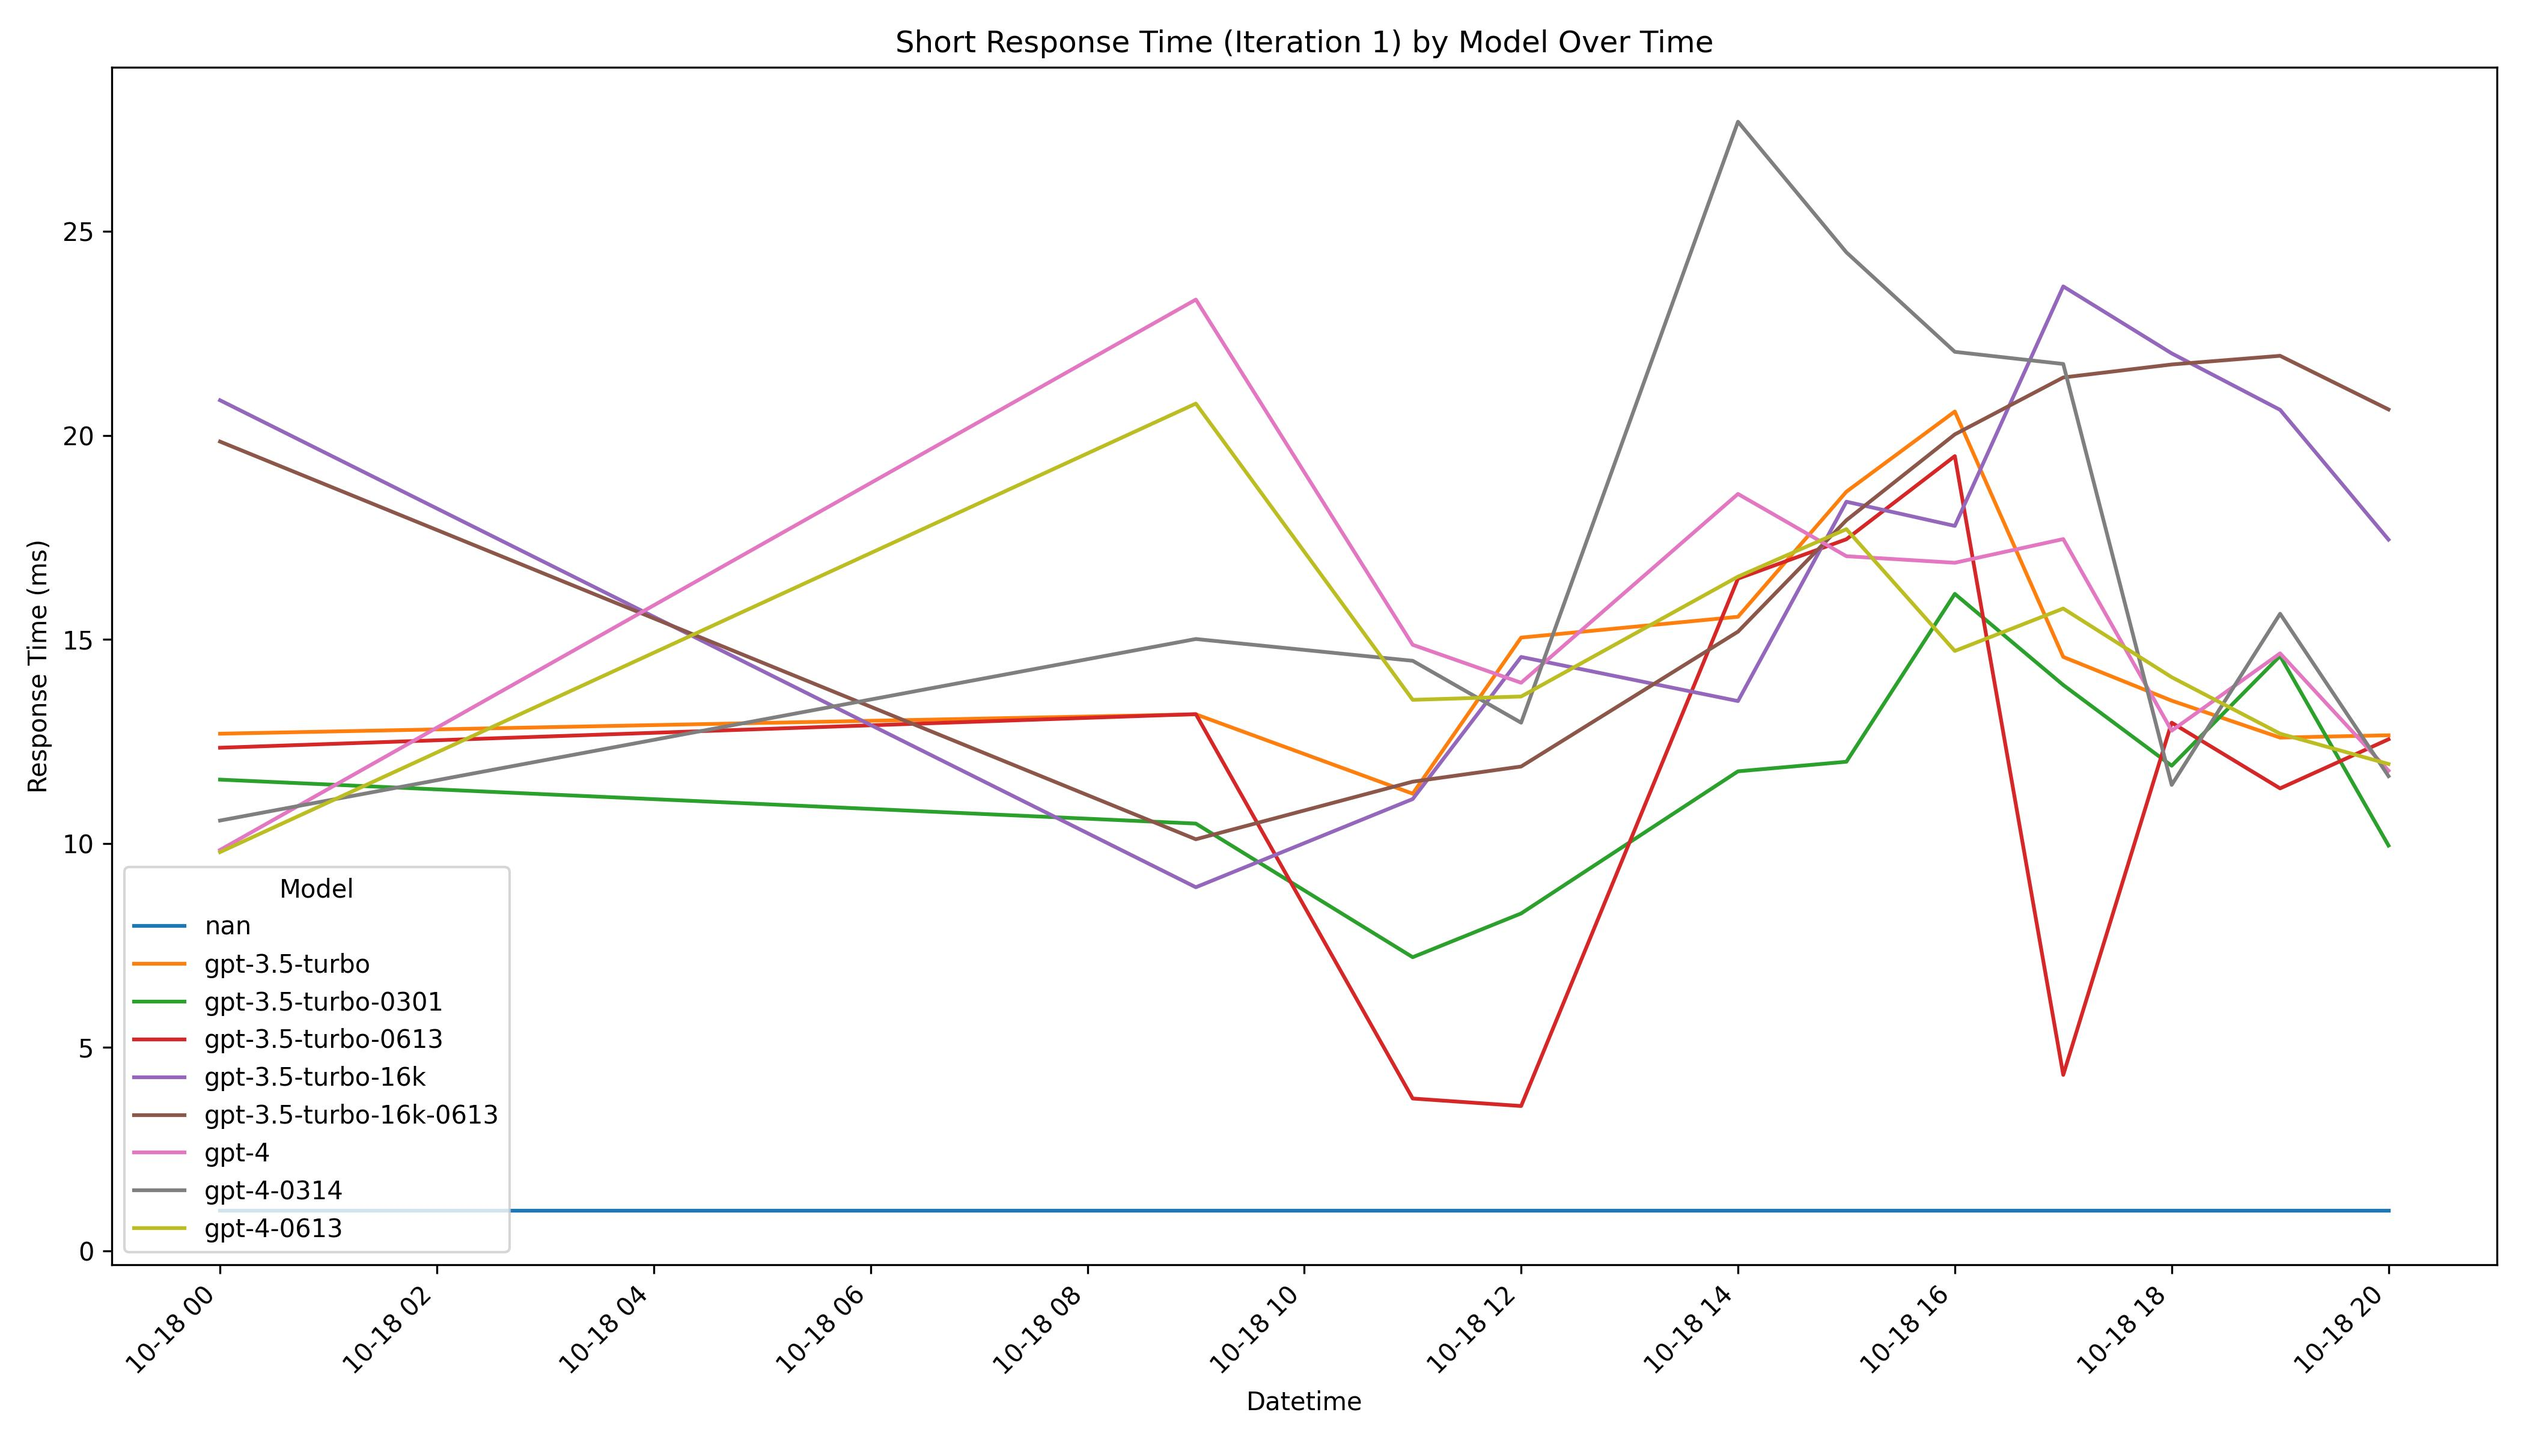
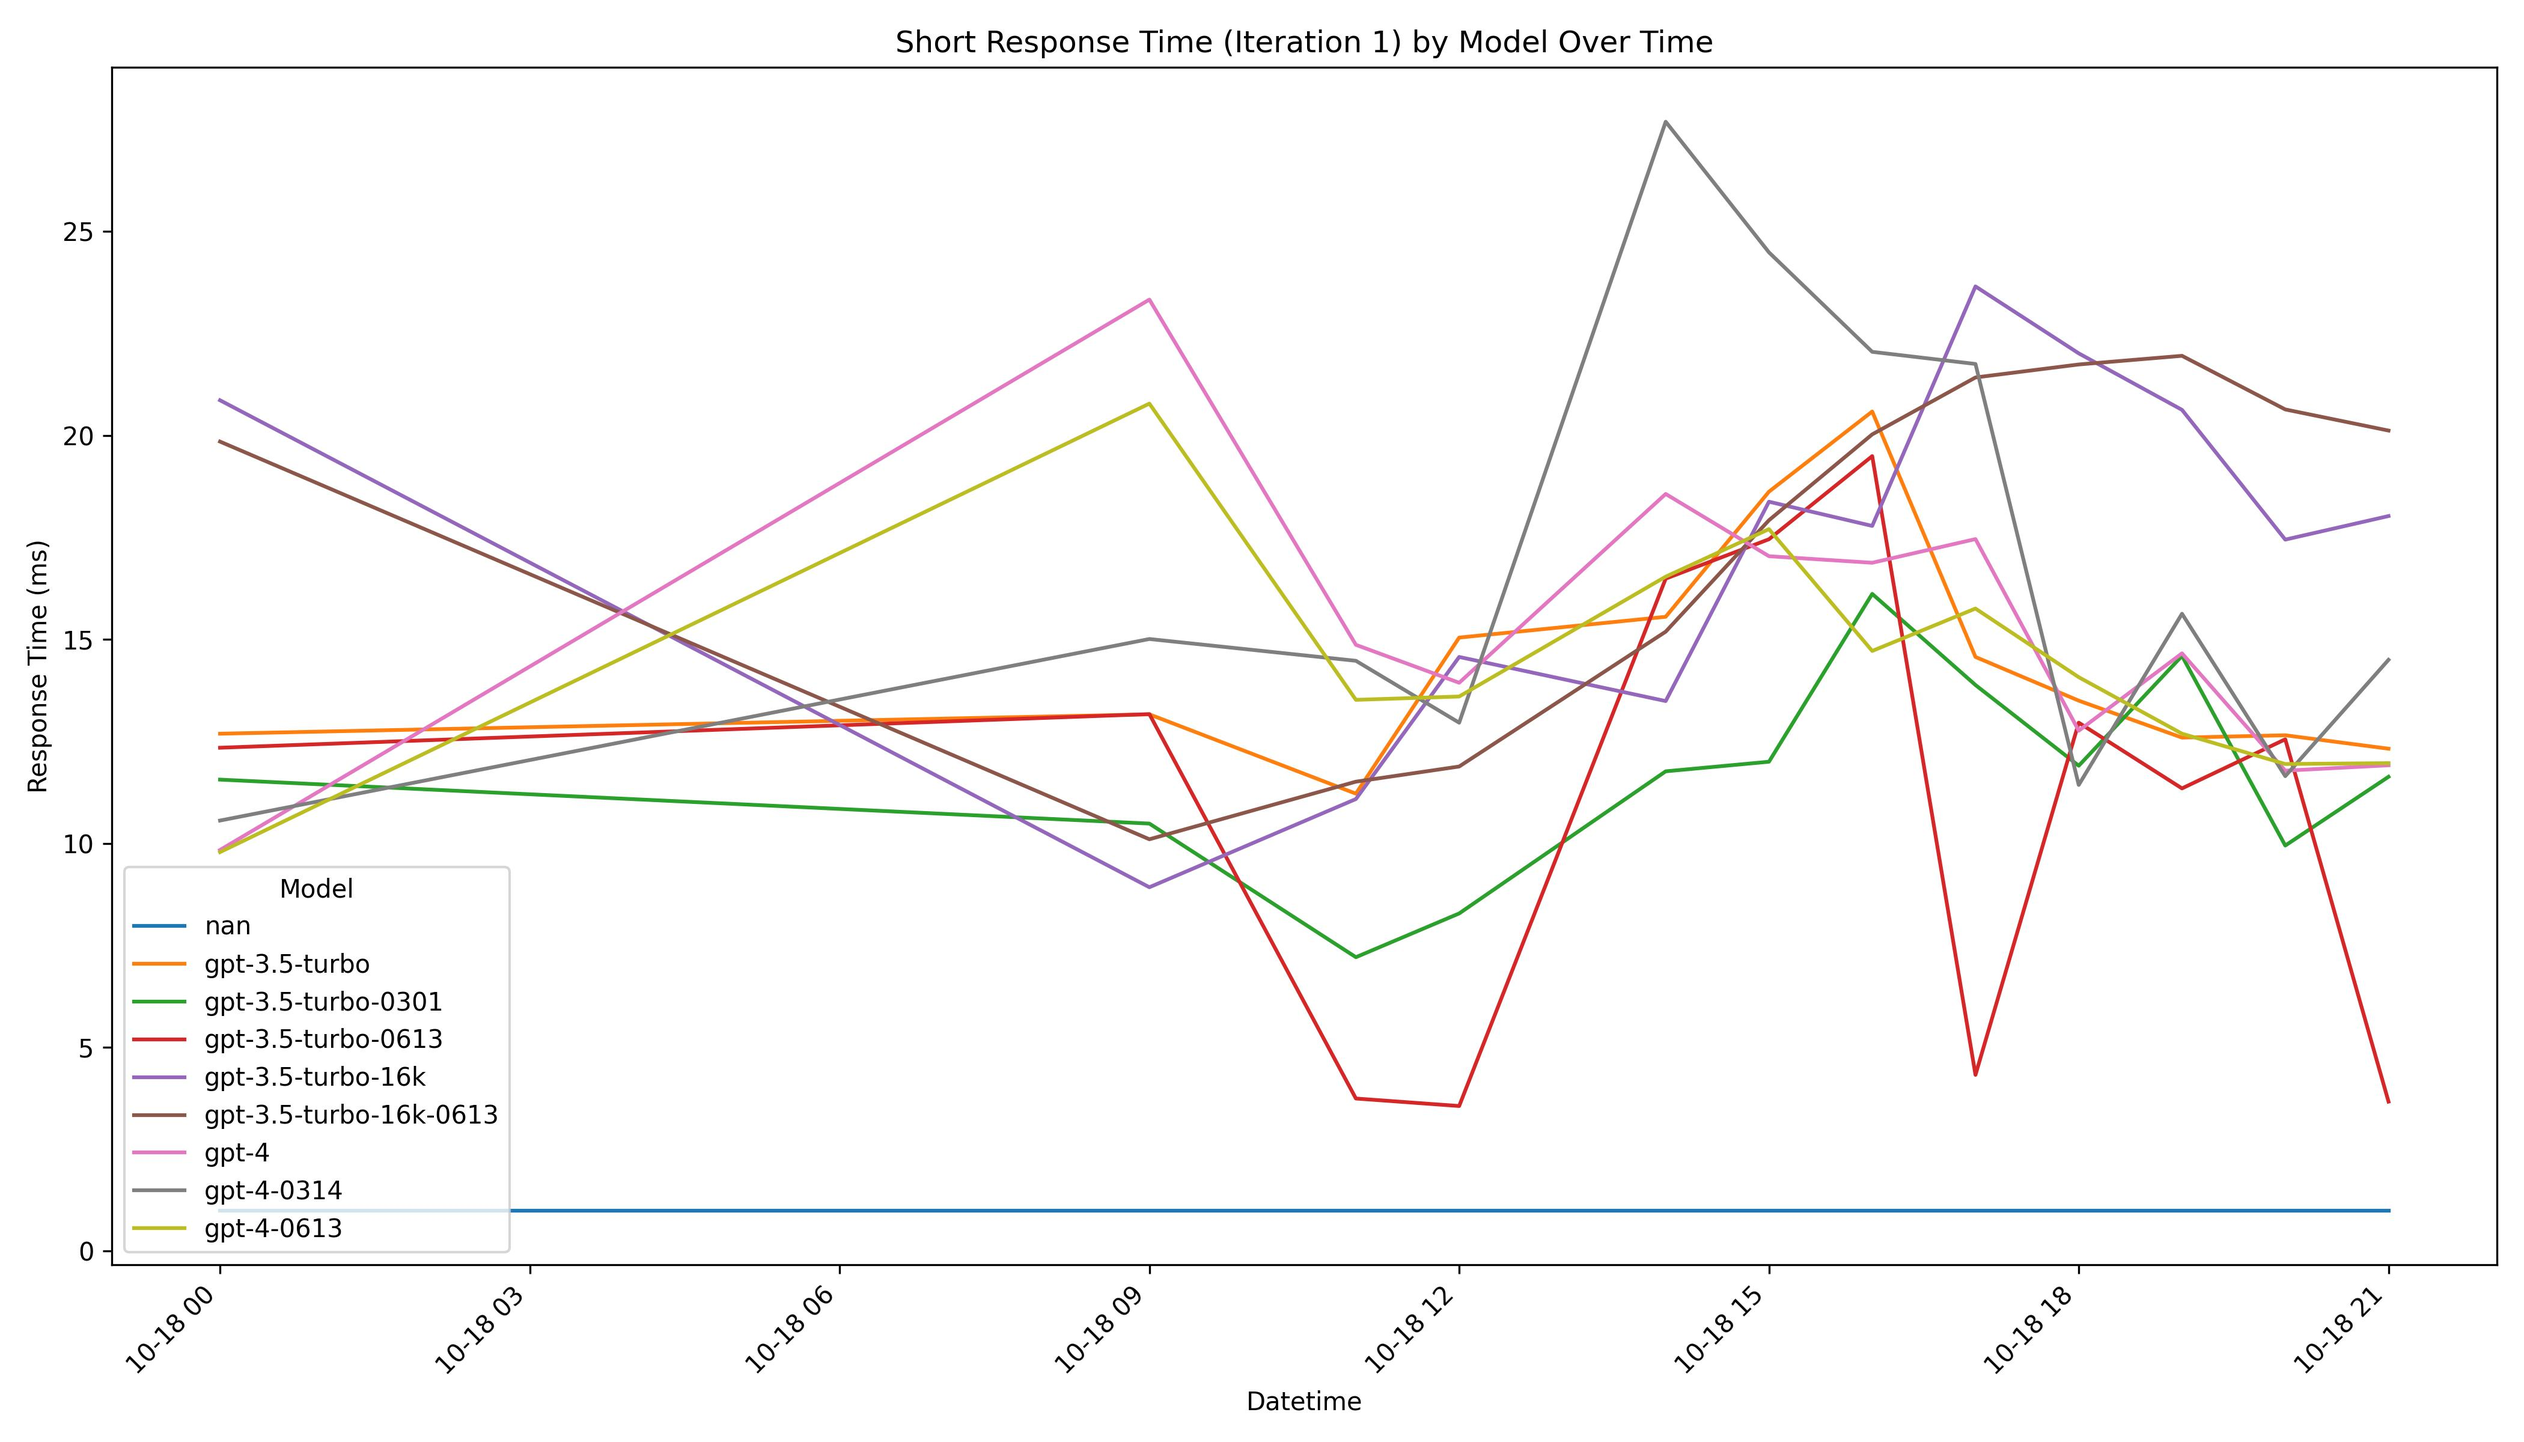
Automated analysis results update - 10/18/23 21:07:52

diff --git a/README.md b/README.md
@@ -3,6 +3,6 @@ the goal of this project is to build a  system to do dump api calls to the opena
 
 ## Latest Plot
 <!-- PLOT-PLACEHOLDER-START -->
-![result](https://github.com/anisayari/openai-api-response-time-audit/blob/main/results/plot-2023101820.jpg?raw=true)
+![result](https://github.com/anisayari/openai-api-response-time-audit/blob/main/results/plot-2023101821.jpg?raw=true)
 ![line chart](https://github.com/anisayari/openai-api-response-time-audit/blob/main/results/line_chart.jpg?raw=true)
 <!-- PLOT-PLACEHOLDER-END -->
